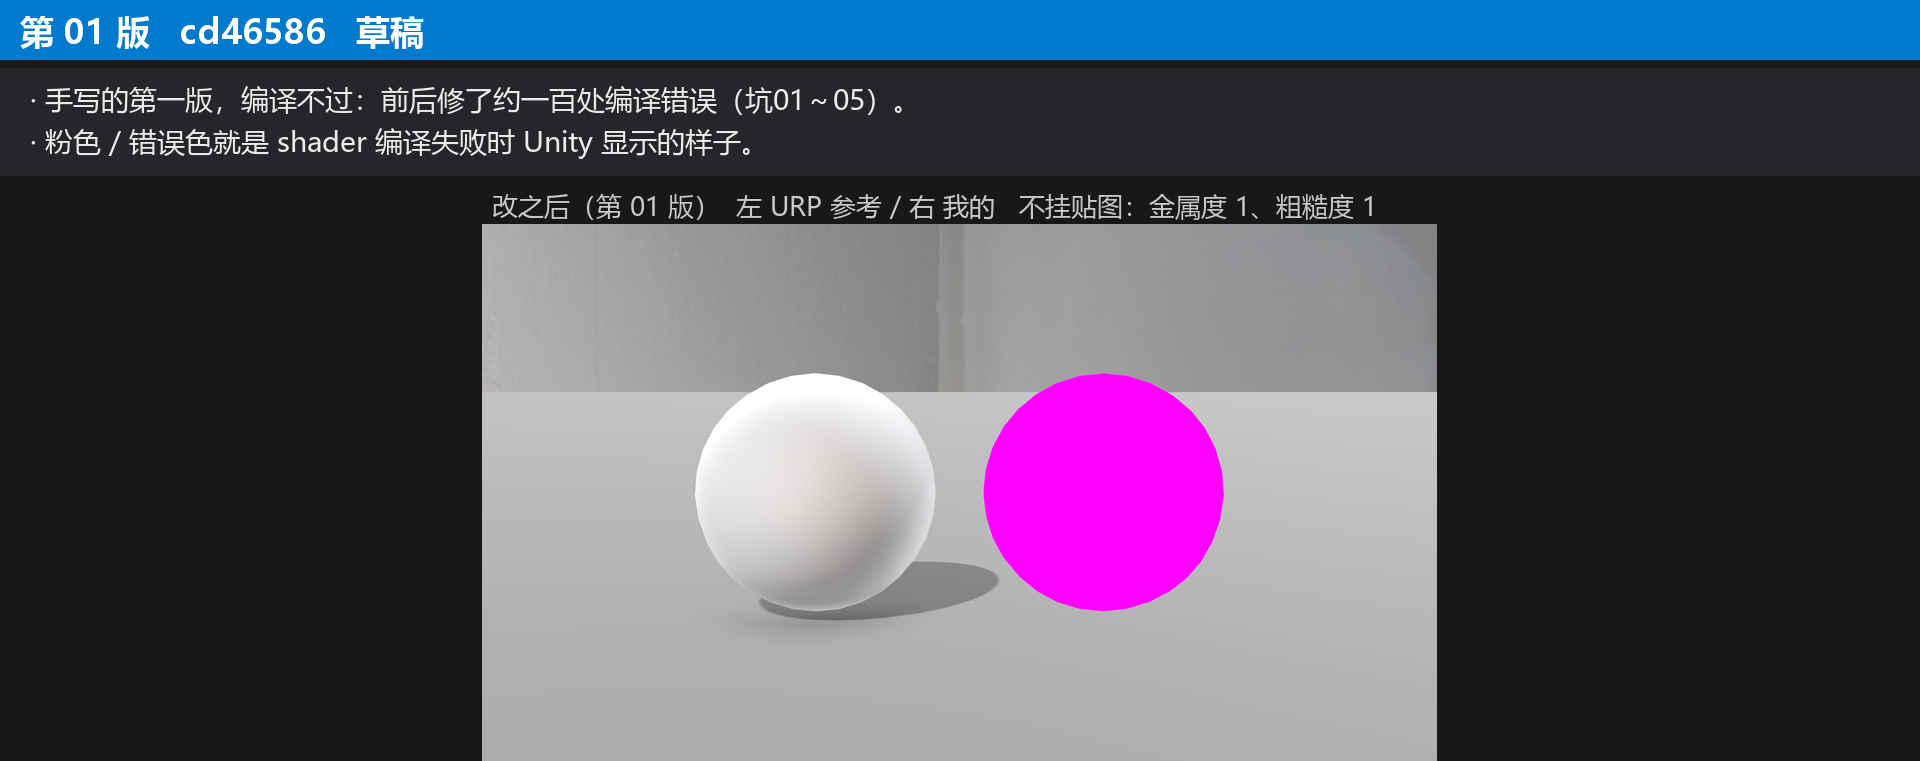
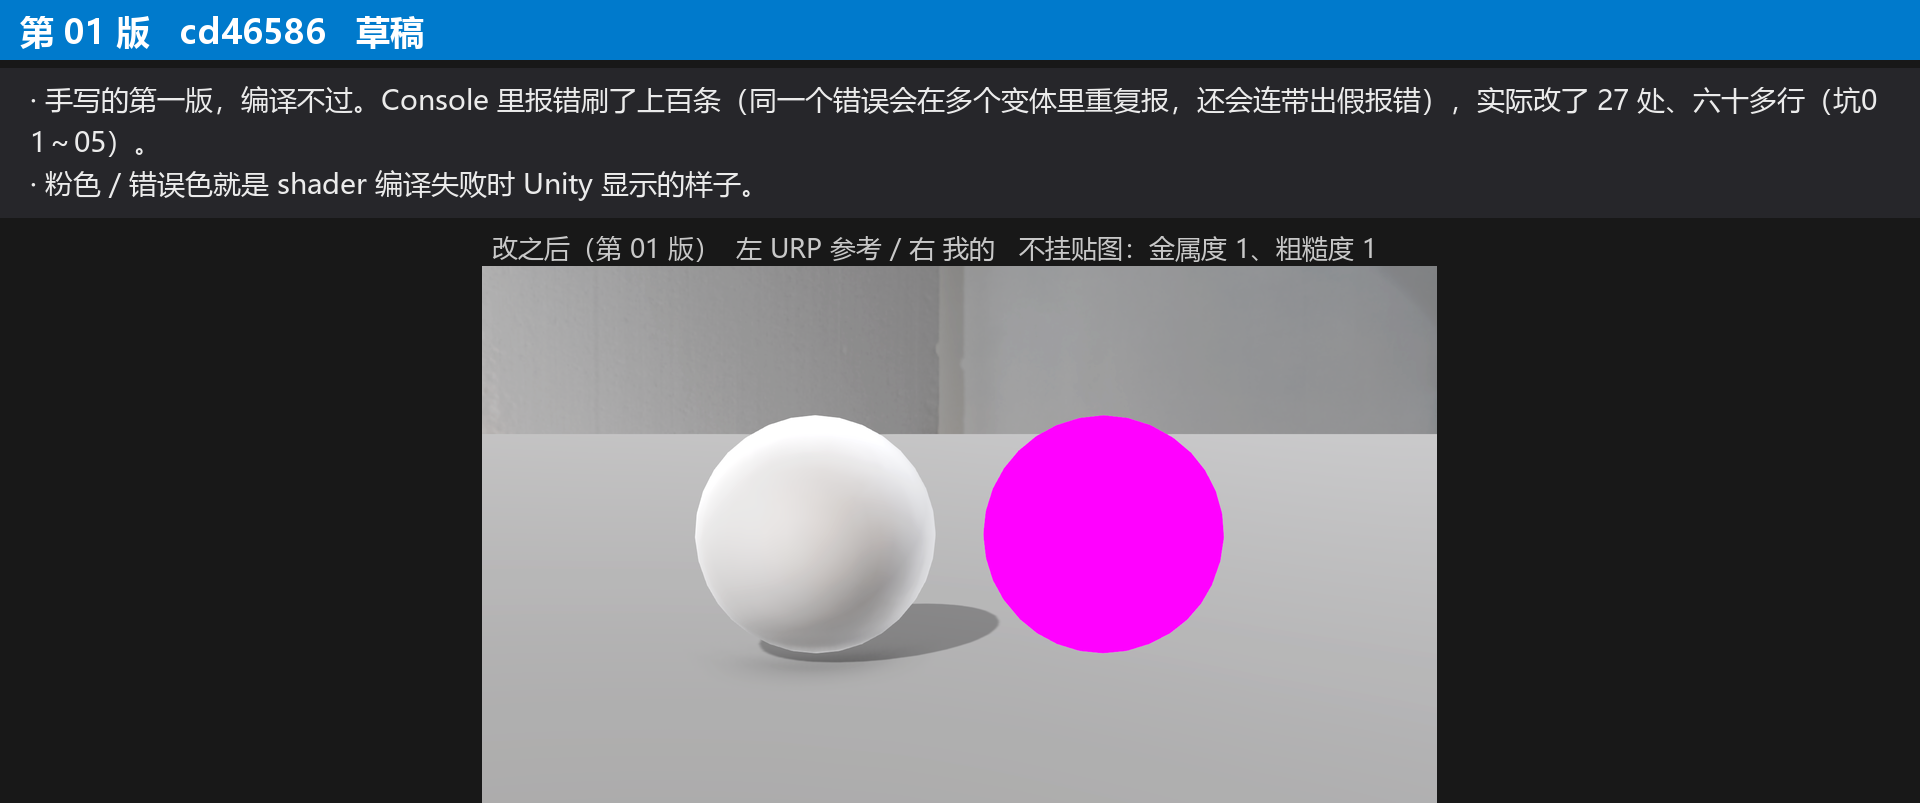
合成图注释更正：草稿到第一版实际改了 27 处、六十多行，上百条是 Console 的报错条数

diff --git a/Tools/compose_history.py b/Tools/compose_history.py
@@ -15,7 +15,7 @@ BG = (24, 24, 24); TITLE_BG = (0, 122, 204); NOTE_BG = (38, 38, 42); LABEL = (20
 
 # 每个版本的注释：改了什么、为什么、画面有什么变化（从踩坑日志提炼）
 NOTES = {
-    "cd46586": ("草稿", ["手写的第一版，编译不过：前后修了约一百处编译错误（坑01～05）。",
+    "cd46586": ("草稿", ["手写的第一版，编译不过。Console 里报错刷了上百条（同一个错误会在多个变体里重复报，还会连带出假报错），实际改了 27 处、六十多行（坑01～05）。",
                        "粉色 / 错误色就是 shader 编译失败时 Unity 显示的样子。"]),
     "e766357": ("坑01～05 → 坑06", ["修完编译错误，第一次编译通过：PI 撞名、TEXTURE2D 没带括号、切线要 float4、half4 构造器、EnvBRDFApprox 是 UE 的函数。",
                                  "画面：右边的球全黑，看着像透明（坑06）。真正原因要到第 04 版才找到。",
